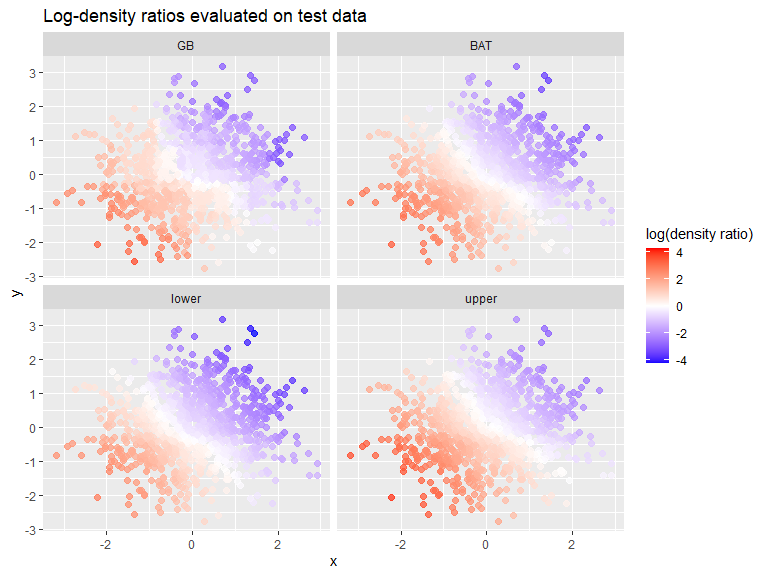
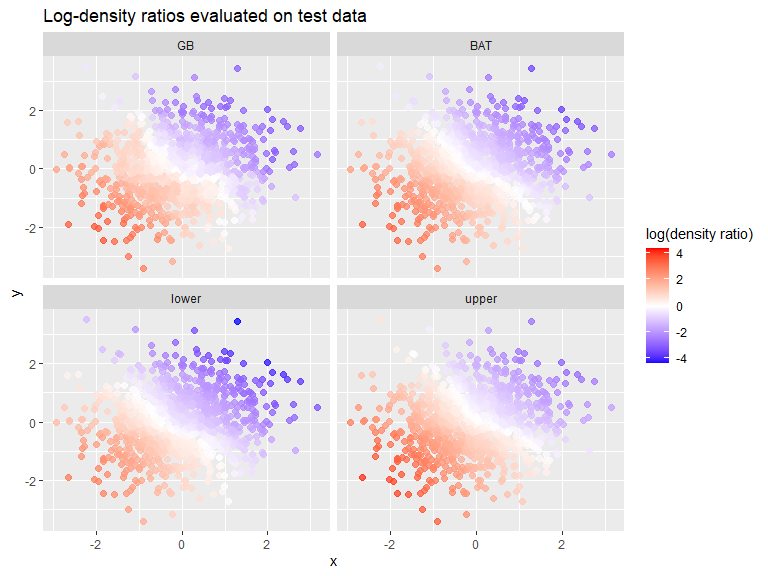
BATTS 0.3.0: use the paper's simulation settings as defaults
boots(): gradient boosting, at most 1000 trees selected by 5-fold CV and
per-tree subsampling of one half (use_gradient = TRUE, num_trees_max = 1000,
K_CV = 5, subsample_fraction = 0.5). batts(): 200 trees, 2000 burn-in
iterations and 1000 saved draws. Other defaults are unchanged. Estimation
code is unchanged: a default call is identical to 0.2.2 with the same
explicit settings and seed (checked for GB, FS and BAT).

Tests that relied on the old defaults now pass them explicitly;
tests/defaults.R checks the defaults and the equivalence. The README
example and example.R use the defaults with a shorter demonstration MCMC
run (500 burn-in iterations and 500 draws).

diff --git a/README.md b/README.md
@@ -12,28 +12,35 @@ ratios](https://arxiv.org/abs/2508.03059)
 
 ``` r
 library(devtools)
-install_github("nawaya040/BATTS")
+install_github("nawaya040/BATTS@v0.3.0")
 ```
 
 ## Releases and reproducibility
 
 The official distribution is
-[nawaya040/BATTS](https://github.com/nawaya040/BATTS). Version 0.2.1 adds
-input validation for burn-in counts and move probabilities. Valid-input
-calculations are preserved; invalid inputs are rejected before fitting.
+[nawaya040/BATTS](https://github.com/nawaya040/BATTS). From version
+0.3.0, the defaults of `boots()` and `batts()` are the settings used in
+the paper’s simulations: gradient boosting with at most 1000 trees
+selected by 5-fold CV, depth 4, learning rate 0.01 and per-tree
+subsampling of one half; and 200 Bayesian trees with 2000 burn-in
+iterations and 1000 saved draws. Calls that relied on earlier defaults
+give different results; see [NEWS.md](NEWS.md). The paper’s simulations
+used version 0.2.2 (tag `v0.2.2`) with all settings supplied explicitly.
 
-For paper reproduction, use the exact BATTS commit recorded in the chosen
-[simulation repository](https://github.com/nawaya040/BATTS_simulation_study)
-checkout. From that checkout's root, the supported environment bootstrap is:
+For paper reproduction, use the exact BATTS commit recorded in the
+chosen [simulation
+repository](https://github.com/nawaya040/BATTS_simulation_study)
+checkout. From that checkout’s root, the supported environment bootstrap
+is:
 
-```text
+``` text
 Rscript scripts/prepare_environment.R --install=true --r-lib=.Rlib
 ```
 
-For a package-only installation using the same pin, run from that simulation
-checkout's root in a fresh R session:
+For a package-only installation using the same pin, run from that
+simulation checkout’s root in a fresh R session:
 
-```r
+``` r
 source("config/study.R")
 batts_sha <- study_config("smoke")$batts_sha
 stopifnot(grepl("^[0-9a-f]{40}$", batts_sha))
@@ -45,22 +52,26 @@ simulation commit as well; selecting a moving branch does not freeze it.
 Building from source requires a C++17 toolchain (Rtools on Windows).
 Version 0.2.0 removed `update_lambda`, `lambda_prior_parameters`, and
 `alpha_cutpoint`; remove these named arguments from older calls. See
-[NEWS.md](NEWS.md) for numerical changes in earlier versions. Package commit,
-dependency versions, settings and seeds should accompany each run.
+[NEWS.md](NEWS.md) for numerical changes in earlier versions. Package
+commit, dependency versions, settings and seeds should accompany each
+run.
 
-This repository contains the estimator package, documentation, small examples
-and regression tests. Paper-scale simulations, comparator configurations,
-case-study data and reproduction workflows are maintained separately.
-The worked example below is an API demonstration with its own settings.
-It does not reproduce a specific paper table or establish MCMC convergence.
+This repository contains the estimator package, documentation, small
+examples and regression tests. Paper-scale simulations, comparator
+configurations, case-study data and reproduction workflows are
+maintained separately. The worked example below is an API demonstration
+with its own settings. It does not reproduce a specific paper table or
+establish MCMC convergence.
 
-`batts()` requires an explicit positive `size_backfitting`. Use
-`output_BART_ensembles = TRUE` when posterior prediction at new points is
-needed. Prediction outside the fitted domain is rejected. All returned
-weights are `sqrt(p/q)`; use `2 * log(w)` for the full log-density ratio.
-Check mixing across chains and sensitivity to limited overlap before
-interpreting posterior intervals. Nominal pointwise intervals do not provide
-a guarantee of frequentist coverage or simultaneous inference.
+The example uses a shorter MCMC run than the defaults (2000 burn-in
+iterations and 1000 draws) to finish quickly. Use
+`output_BART_ensembles = TRUE` when posterior prediction at new points
+is needed. Prediction outside the fitted domain is rejected. All
+returned weights are `sqrt(p/q)`; use `2 * log(w)` for the full
+log-density ratio. Check mixing across chains and sensitivity to limited
+overlap before interpreting posterior intervals. Nominal pointwise
+intervals do not provide a guarantee of frequentist coverage or
+simultaneous inference.
 
 ## Main functions
 
@@ -70,11 +81,6 @@ BATTS exposes three main user-facing functions:
 - `batts()` fits the Bayesian additive tree model and can return
   posterior samples for uncertainty quantification.
 - `eval_balance_weight()` evaluates fitted models on new points.
-
-`batts()` requires an explicit positive `size_backfitting` to produce posterior
-draws; its default burn-in is half that count, rounded down. Both fitting
-functions reject constant input columns when rescaling is enabled.
-`n_ratio_per_node` is not implemented; non-default values are rejected.
 
 The functions return the square root of the density ratio, so the
 example below converts outputs to log-density ratios for plotting and
@@ -120,13 +126,14 @@ group_labels = c(rep(0, n0), rep(1, n1))
 result_boosting = boots(
   data = data,
   group_labels = group_labels,
-  num_trees_max = 500,
+  num_trees_max = 1000,
   K_CV = 5,
   max_resol = 4,
   learn_rate = 0.01,
   n_bins = 32,
   margin_scale = 0.1,
   use_gradient = TRUE,
+  subsample_fraction = 0.5,
   quiet = TRUE
 )
 
@@ -142,9 +149,9 @@ result_BAT = batts(
   group_labels = group_labels,
   num_trees = 200,
   lambda_0 = 5,
-  margin_scale = 0.25,
-  size_burnin = 500,
-  size_backfitting = 500,
+  margin_scale = 0.1,
+  size_burnin = 500,     # default 2000; shortened for the demonstration
+  size_backfitting = 500,  # default 1000
   output_BART_ensembles = TRUE,
   quiet = TRUE
 )

diff --git a/NEWS.md b/NEWS.md
@@ -1,3 +1,20 @@
+# BATTS 0.3.0
+
+- The defaults of `boots()` and `batts()` are now the settings of the paper's
+  simulations. `boots()`: gradient boosting (`use_gradient = TRUE`), at most
+  1000 trees (`num_trees_max`) selected by 5-fold CV (`K_CV = 5`) and per-tree
+  subsampling of one half (`subsample_fraction = 0.5`); depth 4, learning rate
+  0.01, 32 bins and margin 0.1 are unchanged. `batts()`: 200 trees
+  (`num_trees`), 2000 burn-in iterations (`size_burnin`) and 1000 saved draws
+  (`size_backfitting`, previously required); the other defaults are unchanged.
+- Calls that relied on the previous defaults now give different results and
+  use the random number generator for CV folds and subsamples. Supply the
+  previous values explicitly to keep earlier behaviour. Estimation code is
+  unchanged; fits with the same explicit settings are identical to 0.2.2.
+- The paper's simulations used 0.2.2 (tag `v0.2.2`) with explicit settings.
+- The README example and `example.R` use the new defaults, with a shorter
+  MCMC run (500 burn-in iterations and 500 draws) for a quick demonstration.
+
 # BATTS 0.2.2
 
 - Add `subsample_fraction` to `boots()` (default `1`, unchanged behavior and
